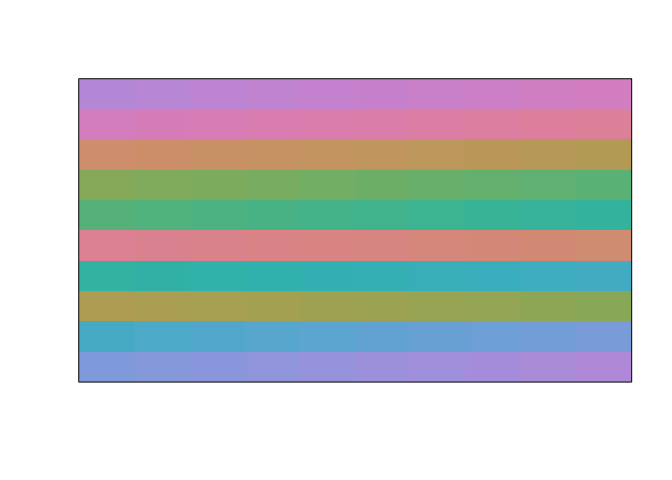
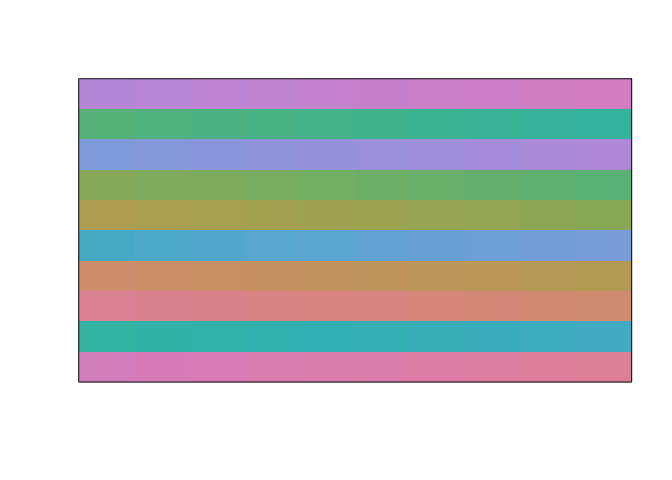
readMe edit

diff --git a/readMe.html b/readMe.html
@@ -61,14 +61,20 @@ if (window.hljs && document.readyState && document.readyState === "complete") {
 
 <p>[1] The original paper: <a href="http://journals.lww.com/epidem/Fulltext/2010/09000/Lasagna_Plots__A_Saucy_Alternative_to_Spaghetti.15.aspx">Lasagna Plots: A Saucy Alternative to Spaghetti Plots</a></p>
 <p>[2] The follow-up paper for SAS code: <a href="http://journals.lww.com/epidem/Fulltext/2012/11000/Lasagna_Plots_Made_in_Different__Statistical_.33.aspx">Lasagna Plots Made in Different (Statistical) Ovens</a></p>
-<p>There is an appendix for [1], but no one likes it. At the time the only option for supplemental materials was to put R code into a PDF, thus introducing a hurdle for easy usage. This repo on github has been long overdue. This repo is an R-package, and can be installed with the following lines:</p>
+<p>There is an appendix for [1], but no one likes it. At the time the only option for supplemental materials was to put R code into a PDF, thus introducing a hurdle for easy usage. This repo on github has been long overdue. This repo is an R-package, and can be installed and ready to go with a few lines in R.</p>
+<div id="quick-start" class="section level1">
+<h1>Quick start!:</h1>
 <pre class="r"><code>library(devtools)                                                                                                                                
 install_github(&quot;swihart/lasagnar&quot;)                                                               
 library(lasagnar)                                                                                                  
 library(colorspace)                                                                                                                              
 lasagna(matrix(1:100, nrow=10, ncol=10, byrow=TRUE)[sample(1:10),])</code></pre>
[2 lines of base64/hex data omitted]
 <p>Note: Windows machines will need to install <a href="http://cran.r-project.org/bin/windows/Rtools/">Rtools</a>. All machines will need to have run <code>install.packages(&quot;devtools&quot;)</code> at the R prompt once.</p>
+</div>
+<div id="base-graphics-require-axis-and-title" class="section level1">
+<h1>Base graphics require <code>axis()</code> and <code>title()</code>:</h1>
+</div>
 
 
 </div>

diff --git a/readMe.md b/readMe.md
@@ -7,7 +7,9 @@ November 5, 2014
 [2]  The follow-up paper for SAS code: [Lasagna Plots Made in Different (Statistical) Ovens](http://journals.lww.com/epidem/Fulltext/2012/11000/Lasagna_Plots_Made_in_Different__Statistical_.33.aspx)
 
 
-There is an appendix for [1], but no one likes it.  At the time the only option for supplemental materials was to put R code into a PDF, thus introducing a hurdle for easy usage.  This repo on github has been long overdue.  This repo is an R-package, and can be installed with the following lines: 
+There is an appendix for [1], but no one likes it.  At the time the only option for supplemental materials was to put R code into a PDF, thus introducing a hurdle for easy usage.  This repo on github has been long overdue.  This repo is an R-package, and can be installed and ready to go with a few lines in R.
+
+#Quick start!:
 
 
 ```r
@@ -21,3 +23,5 @@ lasagna(matrix(1:100, nrow=10, ncol=10, byrow=TRUE)[sample(1:10),])
 ![plot of chunk unnamed-chunk-1](./readMe_files/figure-html/unnamed-chunk-1.png) 
 
 Note:  Windows machines will need to install [Rtools](http://cran.r-project.org/bin/windows/Rtools/).  All machines will need to have run `install.packages("devtools")` at the R prompt once.
+
+#Base graphics require `axis()` and `title()`:
